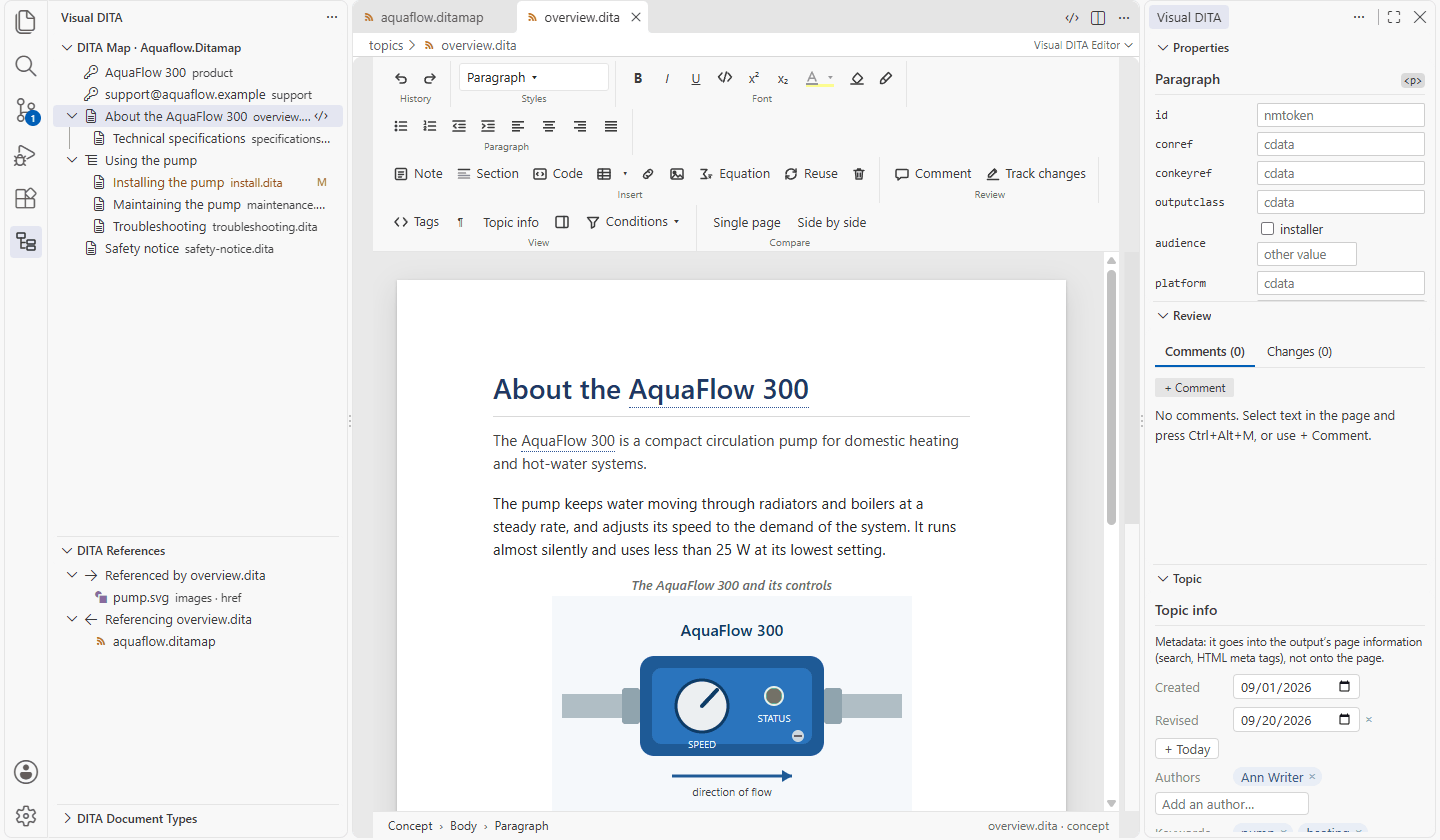
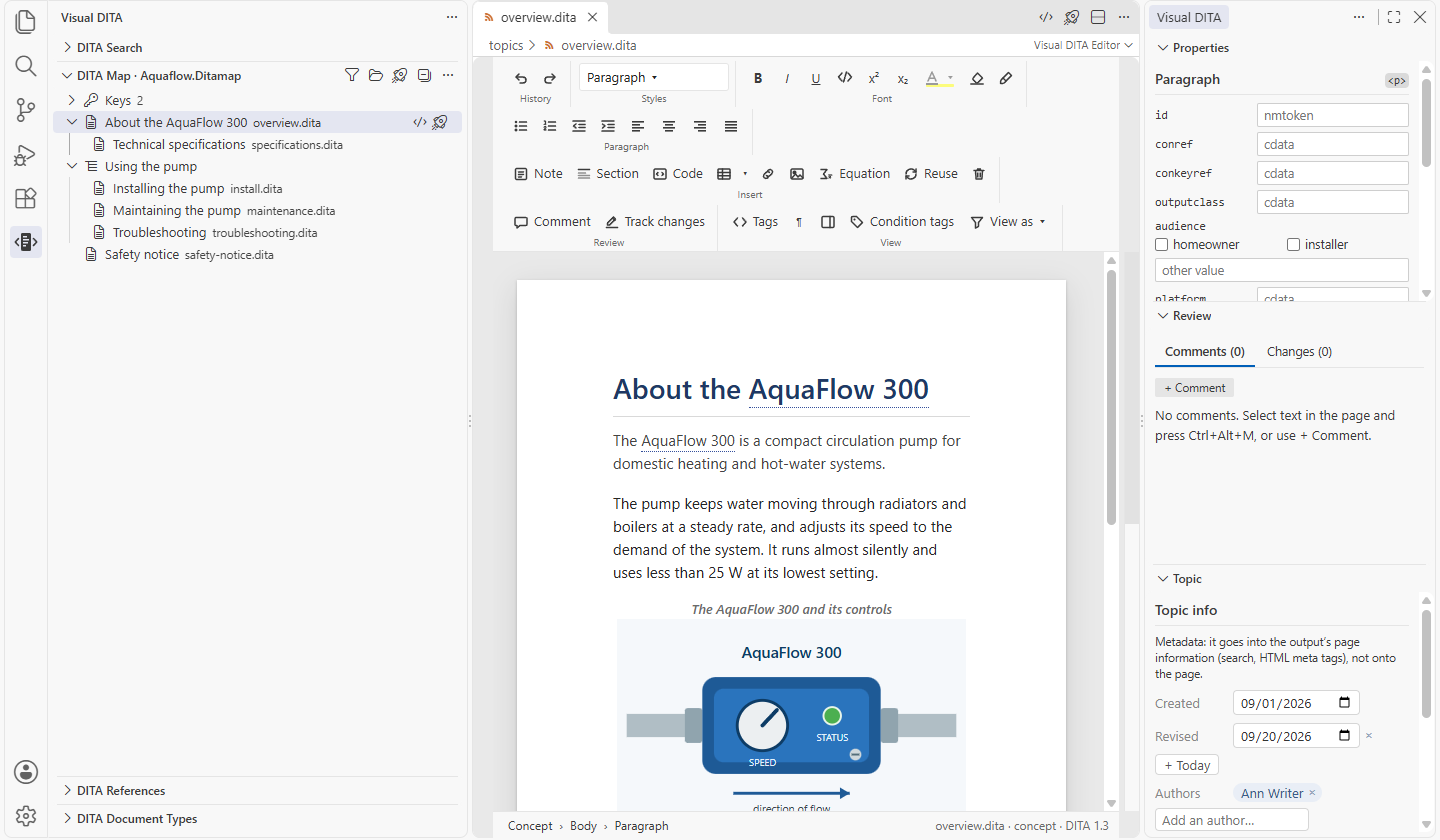
v0.7.0-preview

diff --git a/guide/writing.md b/guide/writing.md
@@ -194,9 +194,15 @@ being there. A converted Word document is written this way. Your publishing styl
   work too. A link's text and target resolve on the page: a link with no text of its own shows the title of what it
   points at, by key too. With the caret on a link, a small bar shows where it goes, with **Open**, **Change…**,
   **Key…** and **Remove link**. **Open** on a link to an element opens its topic with the caret in that element.
+  **Key…** lists your publication's keys, and one entry for each other publication your map refers to as a peer
+  (`admin.…`): choose it for that publication's keys.
 - **Images**: **Image** on the ribbon picks a file, or paste or drop an image onto the page — it is saved in an
-  `images` folder next to the topic. Drag a corner to resize it; the size is written as DITA expresses it
-  (`@width`, `@scale`, `@scalefit`).
+  `images` folder next to the topic. A file picked outside the project is copied into that folder first, Visual DITA
+  asking before it does: outside the project, it could not be shown on the page, nor found by anyone else or by a
+  publication made elsewhere. Drag a corner to resize it, or set its size in the image's bar: a width
+  (`300px`), a percentage of its natural size (`50%`), or **Fit to page**, as wide as the page; the size is written as
+  DITA expresses it (`@width`, `@scale`, `@scalefit`). An image sits in the line, beside the text or the other images of its figure,
+  as it is published; the image's bar switches it between **Inline** and **On its own line** (`@placement`).
 - **Videos and sounds** (`<object>`) show as a card saying what they are and where, with a player: a sound or video
   file of your project plays on the page (mp3, wav, mp4), and **Open** opens it beside the topic. A video another
   site plays (a YouTube embed, Oxygen's `outputclass="iframe"`) plays in the browser: **Open in browser**; YouTube
@@ -217,7 +223,10 @@ being there. A converted Word document is written this way. Your publishing styl
   is the one the reused content can fill; Visual DITA says so when the reused content has elements your document
   type does not.
 - **Keys**: text defined by a key (`<keyword keyref="product"/>`) shows its value, resolved through the map and its
-  key scopes.
+  key scopes. The map is the one you have open when it has the topic (a chapter's map stands for its publication),
+  else the nearest map that publishes it; `visualDita.rootMap` names one map for every topic instead. A key of
+  another publication your map refers to as a peer (`<mapref href="../admin/admin.ditamap" scope="peer"
+  keyscope="admin"/>`) is written with that key scope, `admin.users`, and resolves to that publication's key.
 - **Glossary terms**: right-click › **Insert › Glossary term…** picks a term of your glossary by its words; point at a
   glossary term to see what it means; select words and **Add to Glossary…** to make them a new entry. See
   [Your glossary](glossary.md).
@@ -250,12 +259,84 @@ with the LaTeX kept for the next edit), or to edit the MathML itself.
 
 Select words and choose **Condition…** in the mini toolbar to give them an audience, a platform or a product — or a
 condition of your own document type (an attribute domain: a `@jobrole` your specialization adds). The values offered
-are your subject scheme's, or the ones the project already uses. A value written the generalized way
-(`props="jobrole(admin)"`) counts as `jobrole="admin"`. **Conditions ▾** on the ribbon
-previews the page through a condition set (`.ditaval`) — what it excludes is greyed out — and **Show condition tags**
-labels every conditional element with its values.
+are your subject scheme's, or the ones the project already uses; type another and press **Apply**. A value written
+the generalized way (`props="jobrole(admin)"`) counts as `jobrole="admin"`.
 
-![With the "installer" condition set, the step for installers is greyed out and labelled](images/conditions.png)
+Content with conditions is always marked, quietly, so you see at a glance what the condition sets will do to the
+page: a bar in the page's left margin, all in one column, beside every block that carries some (a paragraph, a list
+item, a step, a note, a section, a table or one of its rows) and beside the lines of words that carry some, those
+words underlined with dots. Point at it to see its values. With the caret in it, a bar says what carries them
+(*Phrase · audience: admin*): **Change…** opens the picker for it, **Remove** takes them off (words that were only
+wrapped to carry them are unwrapped).
+
+![The steps carrying conditions marked in the left margin, the words carrying some underlined with dots; the caret in the homeowners' step, its bar saying Step · audience: homeowner, with Change… and Remove](images/condition-bar.png)
+
+What **Condition…** applies to:
+
+- some words of a paragraph: those words (wrapped in a phrase); the picker says what they are inside of already;
+- all the words of a paragraph, or of a phrase: that paragraph, or that phrase, its values ticked as Properties shows
+  them;
+- a whole element — a table, a section, a list: right-click in it and pick it under **Condition**, which lists the
+  elements around the pointer, innermost first, with their values; or click it in the breadcrumb below the page, then
+  **Condition…**; or set its conditions in **Properties**.
+
+**View as ▾** on the ribbon shows the page as a reader gets it: through a condition set of your project (`.ditaval`),
+or with the **Values** you choose (`audience: admin`, with no file to write first): content marked for other values is
+left out, content marked for them or not marked at all stays. Choose values of several conditions and they all hold;
+two values of one, either. **All content** shows the page as written. Each condition set is listed by its name, with
+a line under it saying what it does (*platform: web only · audience: not admin*); hover over it for its rules in full.
+With many condition sets and values, a filter finds the one you want (type part of it, a name or a value; **Enter**
+takes the first one left).
+
+![View as open: All content, the condition sets homeowner, installer and review-installer, each with a line saying what it does (audience: not installer, audience: installer flagged), New condition set…, and the values to view as](images/view-as-menu.png)
+
+Your choice stays with you: each topic or map you open next opens with it, dimmed or hidden as you left it, until you
+choose another or click **✕**. Pages already open keep their own. A choice the project no longer offers (a condition
+set since deleted, values nothing uses any more) is let go, and the status bar says so.
+
+Keys are resolved as that reader gets them: a key your map defines for one audience and again for everyone reads as
+its readers' definition, in the text, the links and the content reused by key.
+
+While you preview, a bar above the page says what you are seeing (*Viewing as audience: admin*, *Viewing through
+print.ditaval*), with:
+
+- **Excluded content**: **Dimmed**, greyed out and labelled where it is; or **Hidden**, off the page, a reader's
+  view (both editable: see below);
+- **Open .ditaval**, for a condition set: its file in its editor beside the page, to change its rules;
+- **Save as .ditaval…**, for values: the values you chose as a new condition set, to publish with, and DITA-OT
+  leaves out what the page left out (**Open** in the confirmation opens it beside the page);
+- **✕**, to stop previewing (as **All content** in the menu).
+
+![Viewing through installer.ditaval, Excluded content Dimmed: the installers' step and words greyed out and labelled excluded · audience=installer, the steps carrying conditions marked in the left margin](images/conditions.png)
+
+**Editing while you preview.** You edit what the view's readers get: the content marked for them, and the content
+every reader gets. What the view leaves out is kept as it is, dimmed or hidden. An edit that would change it is not
+made, and the status bar says why, for example:
+
+- typing in it;
+- deleting a selection that runs across it;
+- Backspace or Delete that would merge a paragraph into it;
+- deleting a table column that holds one of its cells;
+- changing its conditions (**Condition…**, **Properties**).
+
+To change what the view leaves out, stop previewing (**✕**, or **All content**) and change it there. Dimmed, you can
+still click into it to read and copy it, and what shows at the caret offers nothing that would change it: no bar for
+its conditions, a link, a table or an image, and the right-click menu has only what reads (Copy, Open link); the
+ribbon stays as it is, its changes refused there the same way. Hidden, the caret does not go into it.
+
+Text you write while you preview carries no conditions: every reader gets it. To mark it for some readers, use
+**Condition…**. Since your choice in **View as ▾** stays with you from page to page, an edit refused on a page you
+just opened may come from the view: the bar above the page says which one.
+
+**New condition set…**, at the end of the condition sets in **View as ▾** (or in the Explorer's **Visual DITA** menu
+on a folder), makes an empty `.ditaval` and opens it in its editor, to write its rules.
+
+In that editor each rule reads as a sentence (*Exclude where attribute audience is admin*), with the values your
+project uses to pick, and says what it does to your content; a flag shows its colour, background and style on a
+sample. The most specific rule decides: one naming the value, then one naming the attribute alone, then one naming
+neither.
+
+**Condition tags**, next to **View as ▾**, writes every conditional element's values beside it, previewing or not.
 
 ## Attributes and the topic's metadata
 

diff --git a/CHANGELOG.md b/CHANGELOG.md
@@ -1,5 +1,129 @@
 # Changelog
 
+## 0.7.0
+
+### Conditions
+
+- **View as ▾** (the ribbon's conditions menu, under a name that says what it does) shows the page, or the map, as a
+  reader gets it: through a condition set, or with the values you choose (`audience: admin`) with no condition set to
+  write first: content marked for other values is left out, content marked for them or not marked at all stays;
+  values of several conditions combine.
+- Keys are resolved as that reader gets them: a key defined in the map for one audience and again for everyone reads
+  as its readers' definition, in the text, the links and the content reused by key, and in the topics' titles a map
+  shows.
+- While a condition set or a view is previewed, a bar above the page says which, with **Excluded content**: **Dimmed**,
+  greyed out and labelled where it is, or **Hidden**, off the page (a reader's view); either way you edit what the
+  readers get, while what the view leaves out is kept as it is, its conditions too (to change it, stop previewing);
+  **Open .ditaval** for a condition set, its file in its editor beside the page; **Save as .ditaval…** for a view, a
+  new condition set to publish exactly what the page showed (**Open** in the confirmation opens it beside the page);
+  and **✕** to stop previewing (*Viewing as audience: admin*, *Viewing through print.ditaval*). The same on a map's
+  page.
+- **New condition set…**, in **View as ▾** and in the Explorer's **Visual DITA** menu on a folder, makes an empty
+  `.ditaval` and opens it in its editor to write its rules. **View as ▾** lists the condition sets as they are as soon
+  as one is made or deleted, in VS Code or outside it.
+- The condition set editor reads each rule as a sentence (*Exclude where attribute audience is admin*), offers the
+  values the project uses, says what each rule does to the content, and shows a flag's colours and style on a sample;
+  it fits beside a page, its rules wrapping instead of scrolling sideways.
+- On a map, right-click an entry › **Condition…** sets its conditions with the same picker as on a topic.
+- A topic only read (a file VS Code keeps read-only, an earlier version from Git) keeps the ribbon's View group:
+  **View as ▾**, **Condition tags**, **Tags**.
+- **View as ▾** is the choice alone: **All content**, the condition sets and the **Values**; a long list gets a filter
+  (type part of a value, **Enter** takes the first one left).
+- **View as ▾** lists each condition set by its name, with a line under it saying what it does (*platform: web only ·
+  audience: not admin*), its rules in full on hover.
+- The choice in **View as ▾** stays with you: each topic or map you open next opens with it, dimmed or hidden as you
+  left it, until you choose another or **✕**; pages already open keep their own.
+- Content with conditions is marked on the page, always and quietly: words carrying some are underlined with dots, a
+  paragraph, a list item, a step, a note, a table row or any block carrying some has a bar in the page's left margin,
+  all in one column, and so do the lines of words carrying some; their values show on hover. **Condition tags**,
+  a button of its own in **View**, writes them beside it, the margin bar staying as it is.
+- With the caret in conditioned content, a bar says what carries the conditions and their values, with **Change…** and
+  **Remove** (words that were only wrapped to carry them are unwrapped).
+- Right-click › **Condition** lists the elements around the pointer, innermost first, each with its values
+  (*Paragraph · platform: linux*, *Section*, *Topic*), and **Selected words** first when there are some; pick one to set
+  its conditions. Pointing at one outlines it on the page.
+- **Condition…** on all the words of a paragraph or a phrase sets the paragraph's or the phrase's own conditions, its
+  values ticked as Properties shows them, instead of wrapping its words again; on an element selected in the
+  breadcrumb (a table, a section), it sets that element's; on some words, the picker says what they are inside of.
+- The values offered include those the open topic uses, set in Properties and not saved yet.
+
+### Keys
+
+- A topic's keys come from the map you have open when that map has the topic: open a publication's map and its topics
+  read with its keys, the product name and the other text it defines; with a chapter's map open, its publication's.
+  Otherwise from the nearest map that publishes the topic. `visualDita.rootMap` still names one map for every topic.
+- A map that refers to other publications as peers (`scope="peer"`) is a publication of its own: its topics get their
+  keys from it, and the DITA Map view lists each peer publication as one entry, to open, instead of all its contents.
+- A link, or reused content, by another publication's key through the key scope its peer map reference gives it
+  (`admin.users`) resolves, as soon as you write it: Visual DITA reads that publication's keys the first time a topic
+  uses one, and the link opens its topic there.
+- A link's **Key…** offers the other publications your map refers to as peers, one entry each (`admin.…`); choose
+  one for its keys.
+- **Where used**, and **Referencing** in DITA References, list the topics of other publications that link to a topic
+  through its key scope, and answer at once in a large documentation set.
+- Check References, the Explorer's marks and the Project Health Report check a key where its topic reads it, as its
+  page does: a key defined only in another publication, or another release, is a key no map defines for it; a key of
+  another publication through its key scope is defined. The Project Health Report also lists the key definitions
+  nothing uses.
+- The DITA Map view folds a map's key definitions into one **Keys** row, with how many there are, so that hundreds of
+  them no longer push its table of contents out of sight; **Filter** finds them there too.
+
+### Large projects
+
+- In a large documentation set a topic opens with its keys at once, the first one of a window too: the maps a topic is
+  read in are read once, and again when one of them changes; the DITA Map view reads a publication's entries when you
+  expand it, or open one of its topics, instead of every publication's at once, and finds the publication of the topic
+  you open among hundreds; the keys of a big publication, and the titles of its map, are there at once; opened again,
+  the publications are not looked for again.
+- A large documentation set is read about four times faster the first time, and opened again, Visual DITA finds
+  what changed in a second instead of seconds: DITA Search, Check References and the Explorer's marks are ready
+  sooner.
+- **View as ▾** offers the values every topic and map of the project uses, and every subject scheme's, however large
+  the project; it looked at the first 5,000 topics and 200 maps only.
+- The Explorer's marks are worked out again in about a second after a change in a large documentation set, where
+  publications refer to each other as peers, instead of several seconds.
+- **Publish…** and **Publish Map…** on a topic find the maps that hold it at once in a large documentation set; a
+  topic published alone takes its keys from the map it is read in, as its page does.
+
+### Fixed
+
+- A map that is part of a publication (a chapter's own map) is published with the keys of the publication, as its
+  topics read in Visual DITA; it was published without them, its product names and other key text empty.
+- In the DITA Map view, the rocket in the title bar publishes the map shown, whichever row is selected, instead of
+  the selected topic alone.
+- The DITA Map view listing several maps titles each map's topics with that map's own keys (a product name of one
+  release in that release's map), instead of the first map's.
+- The Project Health Report counts a map's own topics: another publication it refers to as a peer (`scope="peer"`)
+  is counted with its own map, not added to this one.
+- A link brought back by undo shows its title, and whether its target is there, at once, instead of after the page
+  was opened again.
+- **Condition…** on selected words: a value typed and not yet confirmed with **Enter** is applied with **Apply**,
+  instead of being dropped; the words then show their condition, and the status line says what was set.
+- **Properties** of a map entry offers the condition values to tick (audience, platform, product…), as on a topic.
+- With a condition set (`.ditaval`) in front, **Properties**, **Review** and **Topic** are empty and say why, instead
+  of showing the topic behind it, which a change there would have gone to.
+
+### Images
+
+- An image, a video or a sound chosen from outside the project is copied into it before it is inserted: Visual DITA
+  asks first, then copies it into `images/` (videos and sounds into `media/`) next to the topic and inserts the copy.
+  Outside the project it could not be shown on the page, and no one else, nor a publication made elsewhere, would
+  find it.
+
+## 0.6.1
+
+### Images
+
+- **Fit to page** in the image's bar makes an image as wide as the page (`scalefit="yes"`); pressed again, its
+  natural size.
+
+### Fixed
+
+- Several images in a figure sit side by side on the page, as DITA places them and as they are published, instead of
+  one below the other; an image with `placement="break"`, an alignment or fitted to the page keeps a line of its own.
+- A percentage typed in an image's **Width** (`50%`) is written as DITA's `scale="50"`, a percentage of its natural
+  size, instead of a width DITA does not take; a size typed there replaces the scale or the fit it contradicts.
+
 ## 0.6.0
 
 ### DITA Search

diff --git a/README.md b/README.md
@@ -10,6 +10,7 @@
   <a href="https://github.com/PleoSoft/visualdita-docs/issues">Issues</a>
 </p>
 
+
 **Write DITA the way you write in Word — inside VS Code.**
 
 Visual DITA opens `.dita` topics as a page you type on, `.ditamap` and `.bookmap` files as an outline, and
@@ -132,8 +133,9 @@ word is searched as the nearest one in your project — see [Searching your cont
 ![DITA Search for "power": five places in four topics, each with what it is and the word marked; the step clicked, its topic open beside it](guide/images/search.png)
 
 **Conditions.** Select words and choose **Condition…** to tag them for an audience, platform or product, from
-your subject scheme's values or the ones already in use; **Conditions ▾ → Show condition tags** shows every
-conditional element's values on the page, and a condition set (`.ditaval`) previews what an output keeps.
+your subject scheme's values or the ones already in use; **Condition tags** shows every conditional element's
+values on the page, and **View as ▾** shows the page as a reader gets it, through a condition set (`.ditaval`) or the
+values you choose.
 
 **Topic info.** The metadata (prolog) is not on the published page, so it is not on yours either: it is in the Topic
 pane, next to Properties and Review. Created and revised dates with date pickers, authors and keywords as chips
@@ -245,7 +247,7 @@ version, or making one the project's version (for the project, in its settings).
 | `visualDita.ditaVersion` | The DITA version, 1.0 to 1.3, of documents whose DOCTYPE names none (`-//OASIS//DTD DITA Task//EN`, as most do). A DOCTYPE naming a version always gets that version; a document type your version lacks opens on the next version up that has it. Default: 1.3. |
 | `visualDita.standardDita` | The built-in DITA versions your project uses: 1.0 to 1.3 unless you unload one, and the DITA 2.0 draft (`2.0-draft`) only when you load it. Set by **Load** and **Unload** in the DITA Document Types view. |
 | `visualDita.packages` | Where your Visual DITA packages (signed `.vdpkg` files) are: files, or folders directly holding them. Default: `.dita` and the project folder. |
-| `visualDita.rootMap` | Root map used to resolve keys. Empty: the map that reaches the document. |
+| `visualDita.rootMap` | Root map used to resolve keys. Empty: the map you have open when it has the document, else the nearest map that does. |
 | `visualDita.ditaOt` | The DITA-OT **Publish…** uses: its folder. Empty: `DITA_HOME`, else the `dita` on the PATH. |
 | `visualDita.publishing.look` | Publish with Visual DITA's look (the stylesheet for HTML5, the theme for PDF), or, off, with DITA-OT's own. |
 | `visualDita.publishing.html5` | DITA-OT's parameters for HTML5, name → value. Default: the stylesheet copied beside the pages (`args.copycss`, `args.csspath`), the map's contents beside every topic (`nav-toc`: `full`), every page in the output (`generate.copy.outer`: `3`). `null` leaves one out. |
@@ -351,11 +353,6 @@ Visual DITA's compiled modules run inside VS Code's JavaScript engine, like the 
 to the network: `out/vd-core.wasm` is Pleosoft's own code, with no access to your files; SQLite
 (`out/node_modules/node-sqlite3-wasm`) keeps the project index, and reads and writes only its database, in VS Code's
 storage for the workspace.
-
-## This repository
-
-This is where Visual DITA is documented and where you report bugs and ask for features. The extension itself
-is distributed through the VS Code Marketplace; its source is not published here.
 
 ## Support
 

diff --git a/guide/maps.md b/guide/maps.md
@@ -74,14 +74,24 @@ is published.
 
 ## Conditions and branches
 
-**Conditions ▾** previews the map through a condition set. An entry that publishes a branch through its own
-condition set (`ditavalref`) shows it on its row, and a topic under such a branch previews through that condition
-set when you open it.
+**View as ▾** previews the map through a condition set, or with the values you choose, as on a topic's page: what
+is left out **Dimmed** or **Hidden**, as you choose in the bar above the map while you preview, values saved with
+**Save as .ditaval…**, a condition set opened with **Open .ditaval**. Right-click an entry ›
+**Condition…** to set its conditions, or set them in **Properties**. The topics' titles read as the set's readers get
+them, a key in a title resolved under the set. As on a topic's page, what the view leaves out is kept as it is while
+you preview: an entry it leaves out is not moved, removed or changed, its conditions neither, and right-click on it
+offers only **Open** (**✕** stops previewing, to change it). What you choose here, the topics you open next open with, as from a topic's page. An entry that publishes a branch through its own condition set (`ditavalref`) shows it on its row, and a
+topic under such a branch previews through that condition set when you open it, unless you have chosen one in
+**View as ▾**.
 
 ## The DITA Map view
 
 The **DITA Map** view in the Visual DITA side bar shows the map that publishes the topic you are working on, and
 follows you as you open other topics; click a title to open that topic. With several root maps it lists them all.
+A map's key definitions are folded into one **Keys** row, with how many there are, where the first of them is: expand
+it to see them; **Filter** finds them too.
+The map it shows is also the one a topic's keys come from, when it has the topic. Another publication your map refers
+to as a peer (`scope="peer"`) is one entry, to open, not expanded into the map.
 Opening a map shows that map alone, and so does **Choose Map…** in its title bar, or right-clicking a map in the
 Explorer › **Visual DITA** › **Show in Map Panel**; **Show All Maps**, beside them in the title bar (or the first
 entry of **Choose Map…**), lists them all again. The map shown alone is also what **DITA Search** keeps to (see

diff --git a/guide/publishing.md b/guide/publishing.md
@@ -59,6 +59,16 @@ gives DITA-OT a small map that holds the topic and refers to that map for its ke
 else of that map. HTML5 has the pages it links to beside it, so its links work. A topic in no map is published without
 keys. The DITA-OT parameters for a topic published alone are a setting of their own, `visualDita.publishing.topic`.
 
+A map that is part of a publication, a chapter's own map, say, is published the same way: its topics, with the keys of
+the publication it is part of, as they read in Visual DITA.
+
+A link to another publication through its key scope (`<xref keyref="admin.users"/>`, your map referring to the admin
+guide as a peer) shows on the page and opens its topic in Visual DITA. DITA-OT, publishing one publication, does not
+read the other's keys: such a link is published as its own text, without a link, and as nothing when it has no text.
+Give it its text to keep the words (`<xref keyref="admin.users">Managing users</xref>`); to keep a link too, give it the
+address of the other publication's published page as well (`href="https://docs.example.com/admin/users.html"
+scope="external" format="html"`), which DITA-OT follows when it does not find the key.
+
 ### Your own DITA-OT setup
 
 A project already set up for DITA-OT is published as it is set up. **Publish…** first offers the deliverables of your
@@ -117,7 +127,8 @@ Each deliverable's output goes to its own folder in DITA-OT's output folder (`ou
 with `-o`). Commit the `publishing` folder with your topics; at the same moment Visual DITA offers to keep `out/` out of
 Git. The file is yours too: Visual DITA only adds a deliverable when you publish a new combination, and leaves the
 others, yours included, as they are. A project whose `publishing/project.xml` is already there (a colleague's) is
-published through it without asking. **Copy Server Command** in the message after publishing copies the command.
+published through it without asking. A map that is part of a publication (a chapter's) is kept as it is, so DITA-OT
+publishes it without its publication's keys: keep the publication's map. **Copy Server Command** in the message after publishing copies the command.
 
 ### DITA-OT on your machine
 

diff --git a/guide/checking.md b/guide/checking.md
@@ -114,7 +114,10 @@ fixes calling others, and parameters of an abstract pattern the fix declares.
 
 **Visual DITA: Project Health Report** (Command Palette, or the DITA Map view's **…** menu) looks at the whole
 doc set: each map's size in topics and words, links to files that are not there, keys no map defines, topics no map
-publishes, and images nobody uses; topics in DITA `.xml` files count too. Every file is a link that opens it. It is
+publishes, images nobody uses, and key definitions nothing uses (a product name, a phrase or a link target defined in
+a map and never referred to; keys on a topic's entry are left out, as they are there for links to come); topics in
+DITA `.xml` files count too. A key is checked where its topic reads it: a key defined only in another publication, or
+in another release's maps, is a key no map defines for this topic. Every file is a link that opens it. It is
 there at once, from what DITA Search already knows of your project, and counts what you have written but not yet
 saved.
 
@@ -122,7 +125,7 @@ saved.
 
 **Check References**, the checklist button of the **DITA References** view, lists at the top of the view what does
 not resolve in the topic or map you are on: a file or image that is not there, an id a link or conref names that is
-not in its file, a key no map defines, a conref that names no element, and a link to a topic no map publishes (it
+not in its file, a key no map defines for it (in the publication it is read in), a conref that names no element, and a link to a topic no map publishes (it
 goes nowhere once published). Each opens the source at its line; the count shows on the view. **Check References in
 the Whole Project**, in the view's menu, does the same for every topic and map, at once: both come from the reading of
 your project that DITA Search keeps, with what you have written but not yet saved. Links to web addresses, and those

diff --git a/guide/getting-started.md b/guide/getting-started.md
@@ -26,7 +26,7 @@ the other.
 ![The window, with its parts numbered](images/overview.png)
 
 1. **DITA Map view** — the map that publishes the topic you are on, as a tree of titles. Click a title to open the
-   topic. Keys defined in the map are listed at the top.
+   topic. Keys defined in the map are folded into one **Keys** row at the top.
 2. **DITA References** — what this topic uses (images, links, reused content) and what uses it; **Check References**
    lists what does not resolve.
 3. **The ribbon** — as in Word: History, Styles, Font, Paragraph, Insert, Review, View and, where the file is in
